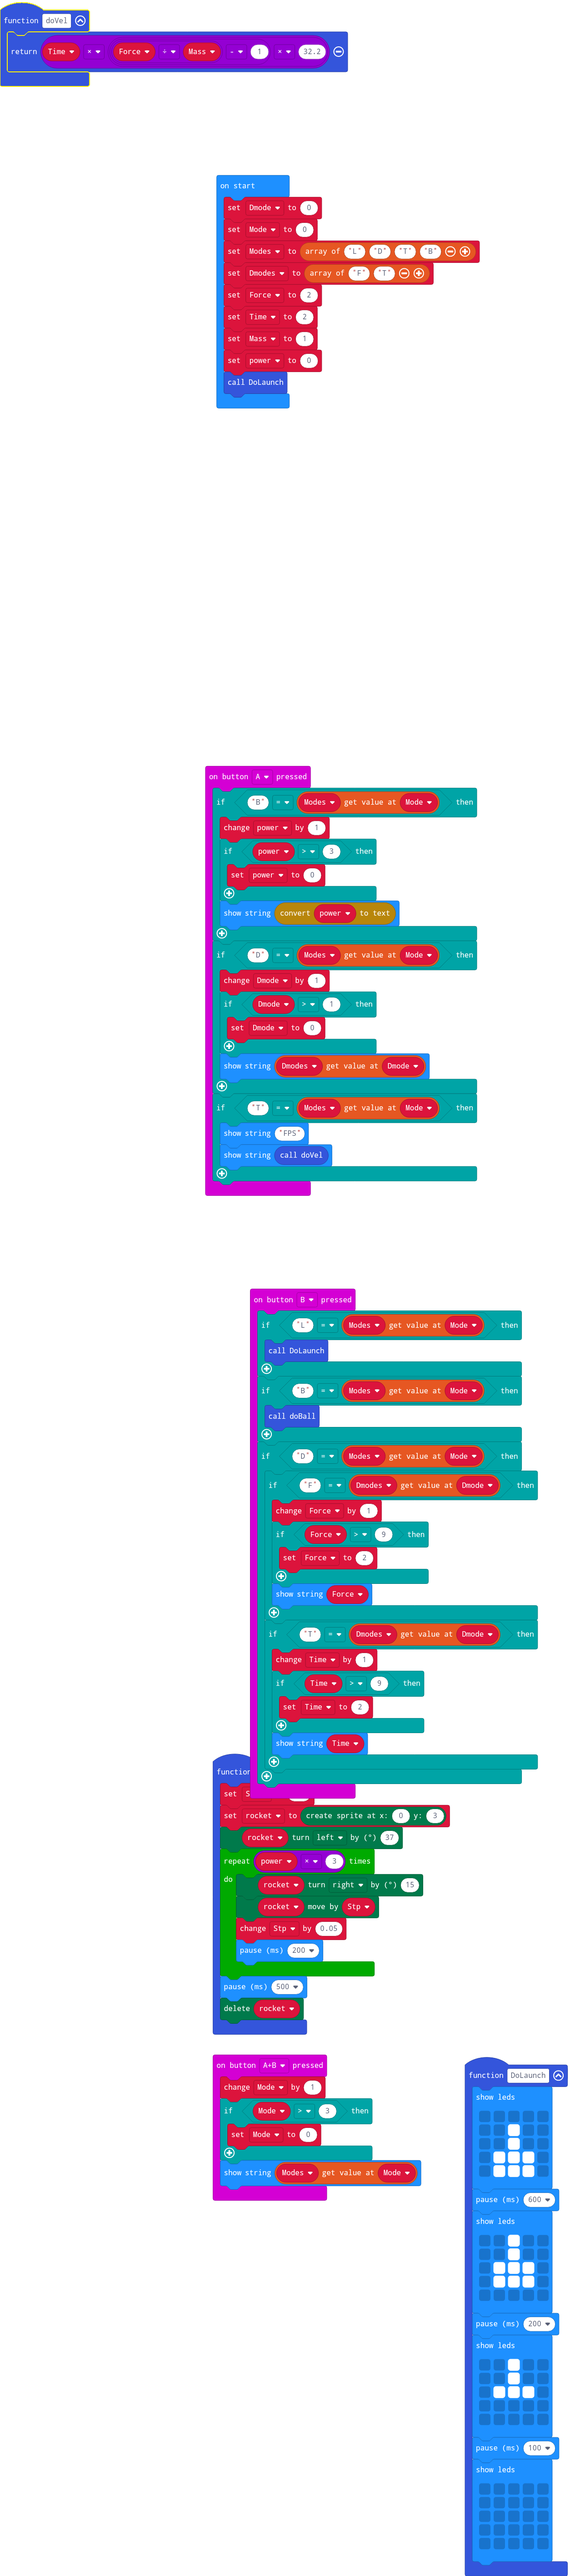
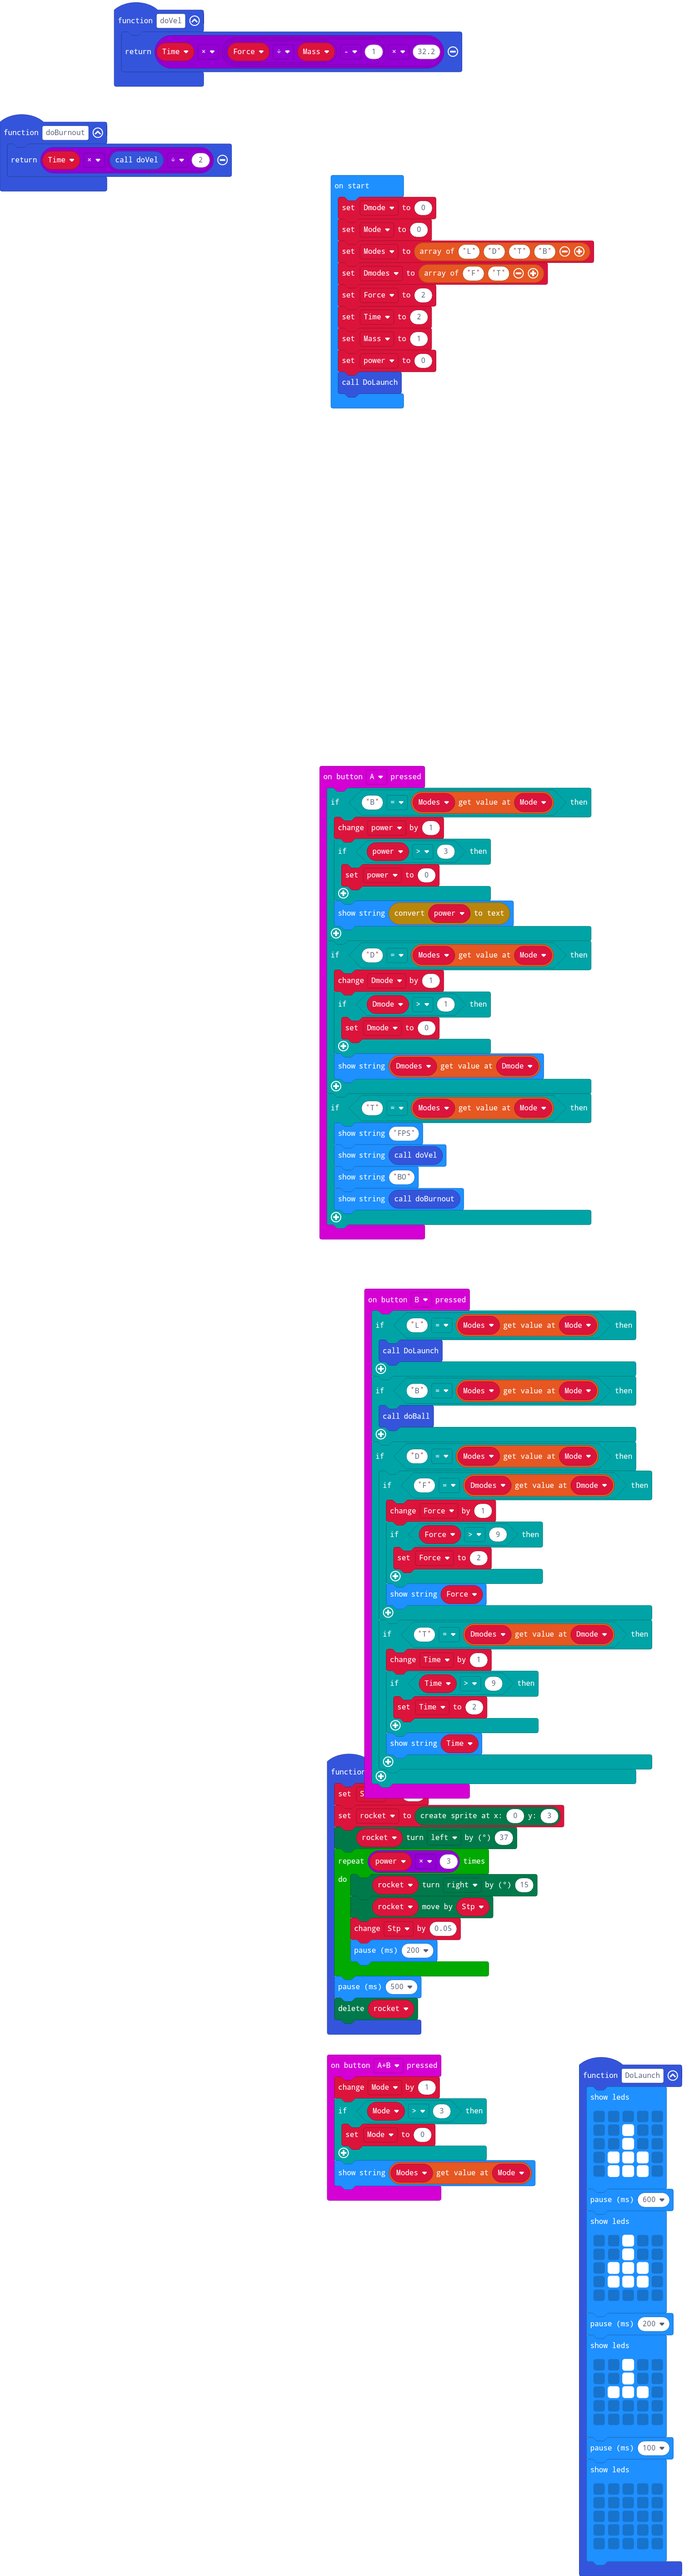
Update main.blocks, main.ts

diff --git a/main.ts b/main.ts
@@ -16,6 +16,8 @@ input.onButtonPressed(Button.A, function () {
     if ("T" == Modes[Mode]) {
         basic.showString("FPS")
         basic.showString("" + (doVel()))
+        basic.showString("BO")
+        basic.showString("" + (doBurnout()))
     }
 })
 function doVel () {
@@ -65,6 +67,9 @@ input.onButtonPressed(Button.B, function () {
         }
     }
 })
+function doBurnout () {
+    return Time * (doVel() / 2)
+}
 function DoLaunch () {
     basic.showLeds(`
         . . . . .
